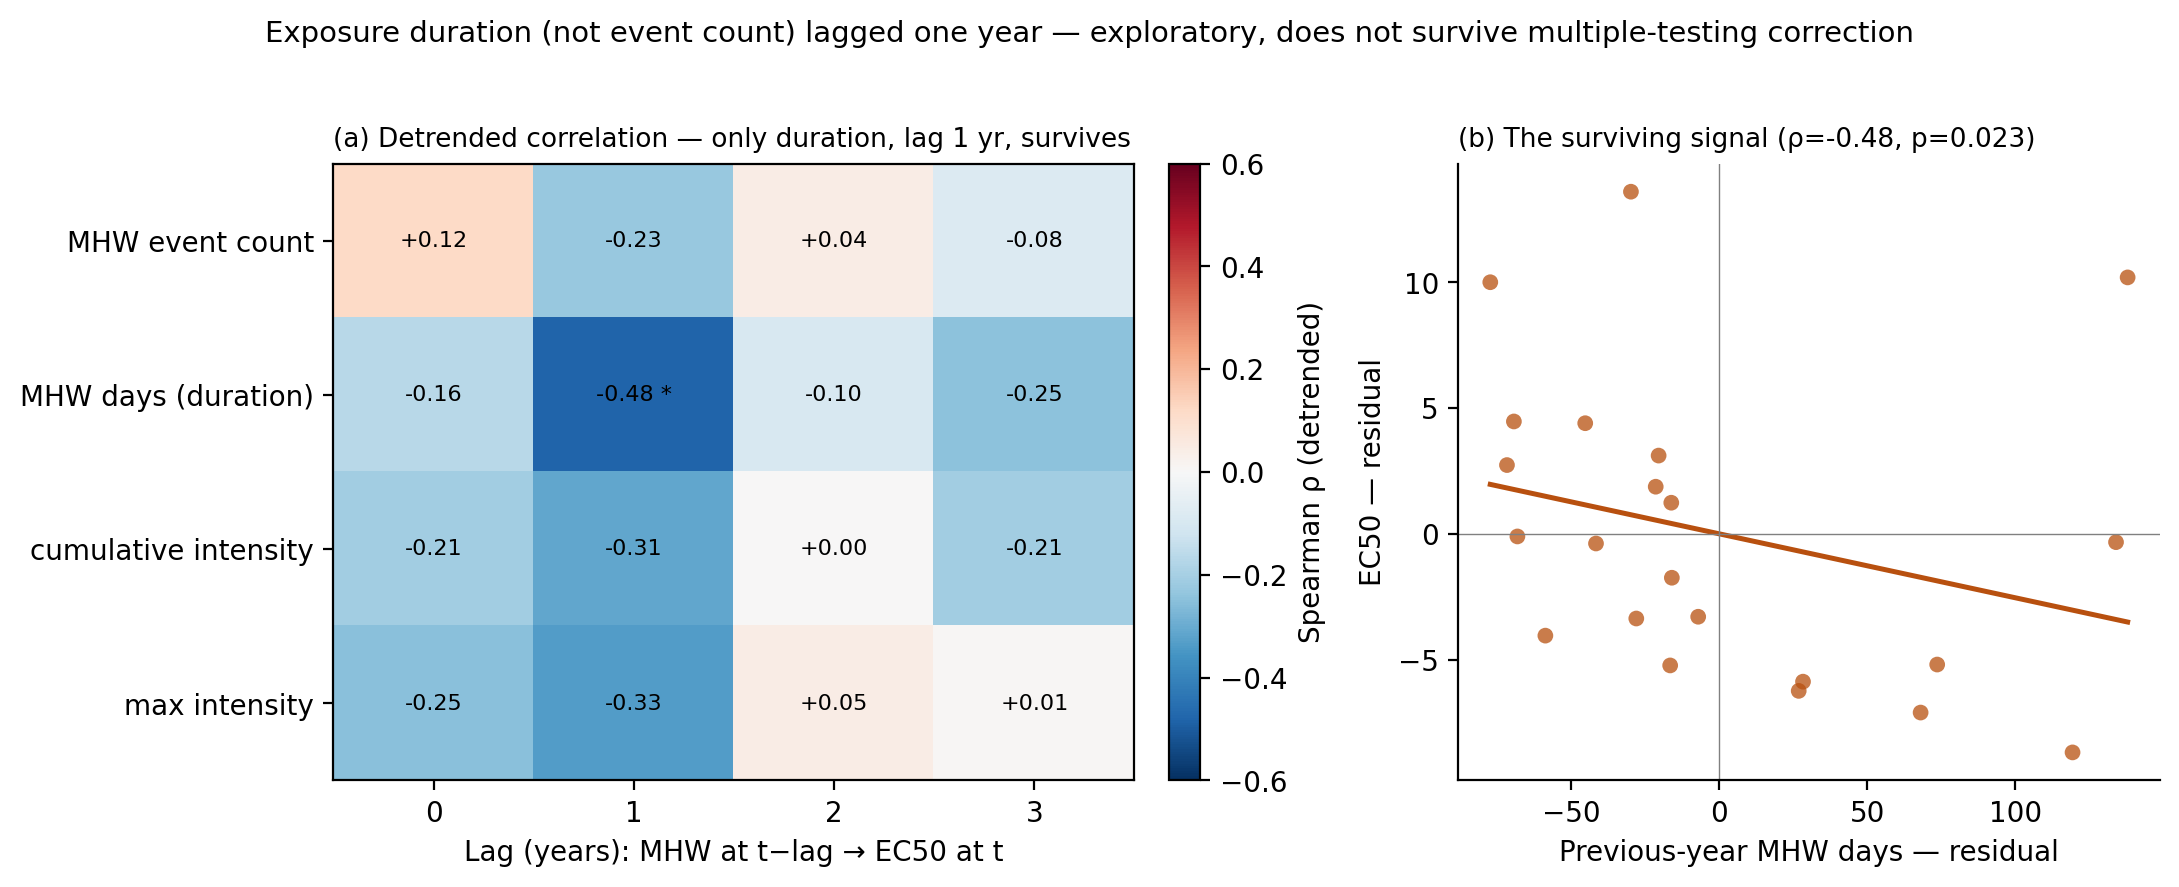
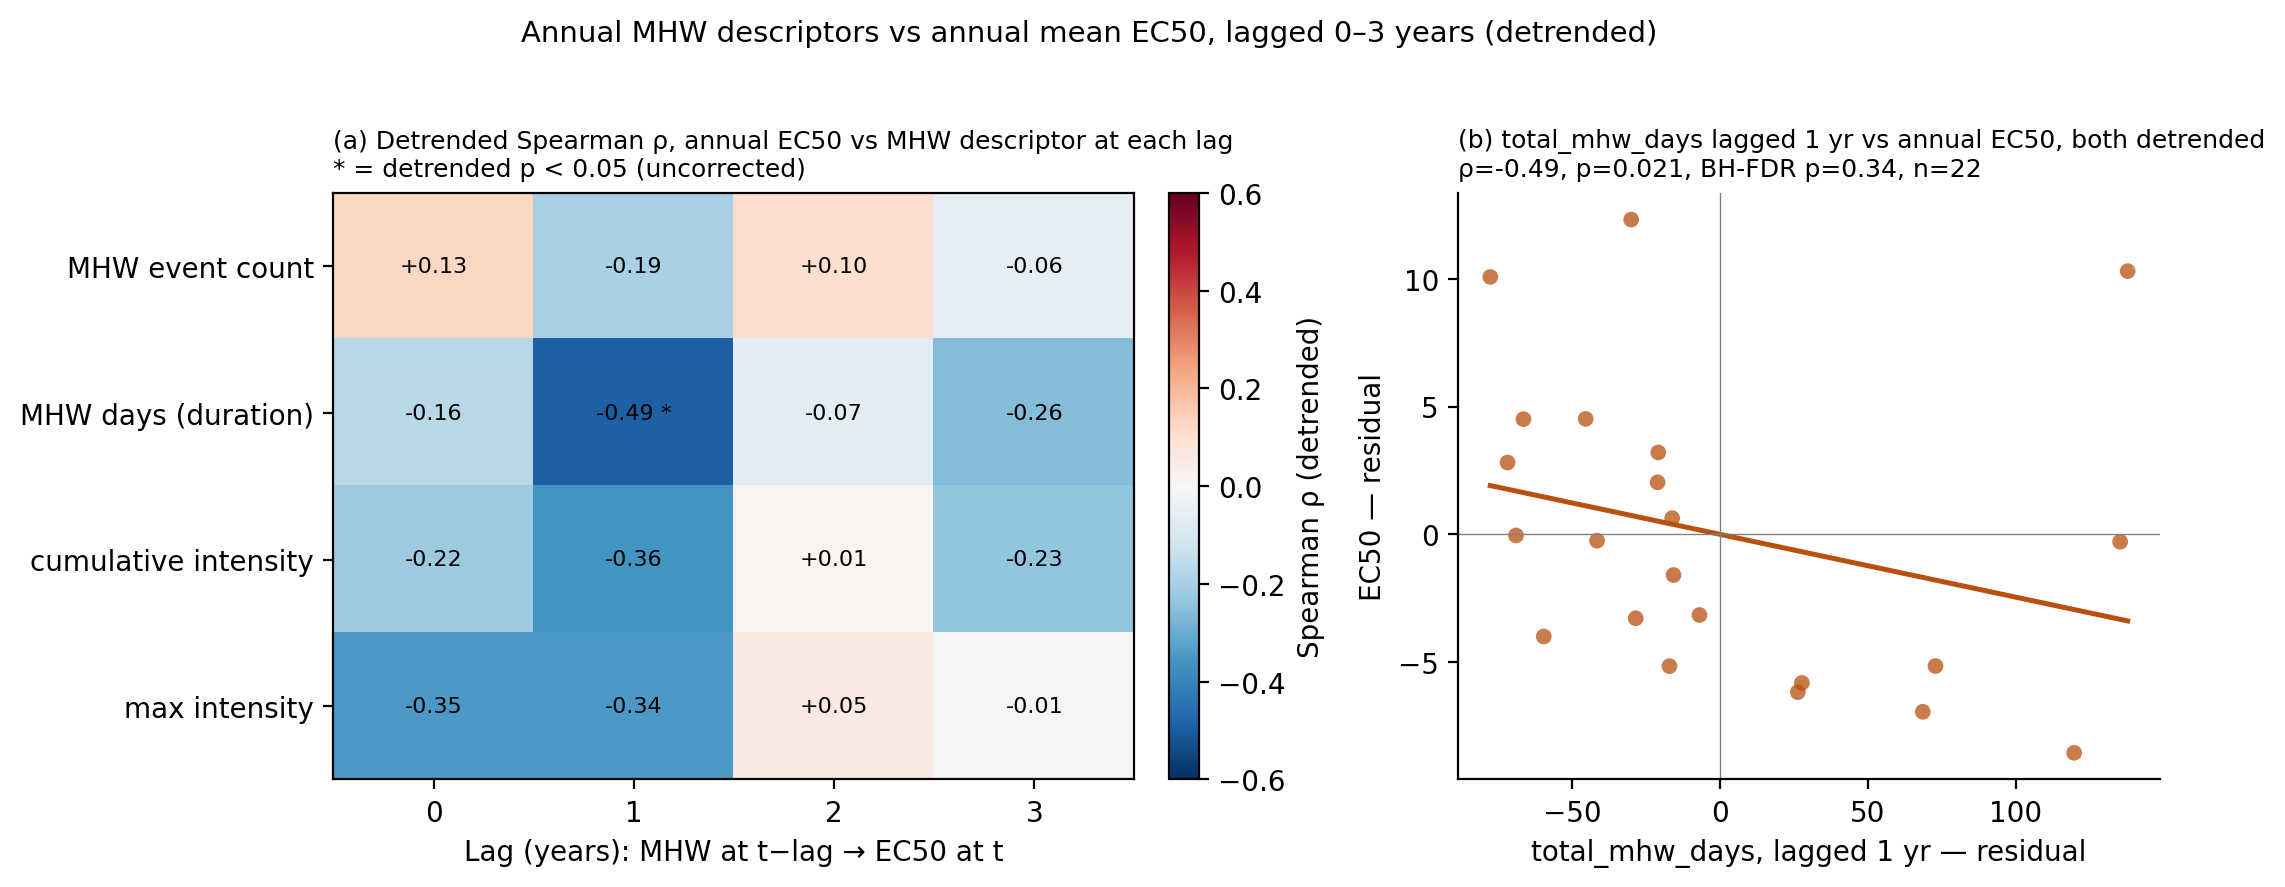
fix: figure titles describe what is plotted, never a conclusion
Le figure del dashboard verranno rigenerate dal job di aggiornamento a
ogni ricostruzione; i loro titoli affermavano conclusioni, fra cui
"Environmental exposure shifts ~3 years before the biological collapse",
la tesi confutata dal lavoro. Ora i titoli descrivono cosa è
rappresentato; date delle rotture, p e regole di scelta stanno in un
sottotitolo calcolato dai risultati.

- regime shift: tolta la freccia "~N-yr accumulation"; "exposure/
  response shift" -> "Pettitt break"; sottotitolo con convenzione delle
  date (ultimo periodo prima del cambiamento) e p di entrambe le rotture;
  pannello (b) senza "climate-change stress".
- MHW annuale: il pannello (b) disegna la coppia best_signal calcolata
  (prima era sempre total_mhw_days al ritardo 1 e anni 2004-2025 scritti
  a mano), con rho, p, p BH-FDR e n nel sottotitolo.
- dose termica: niente "robustly predicts"; la regola di scelta della
  finestra del pannello (b) è dichiarata.
- speciazione: niente "barely shifts"; "Residual biological" -> "Not
  accounted for by speciation".
Figure rigenerate sui dati attuali del branch.

diff --git a/scripts/make_thermal_legacy_figure.py b/scripts/make_thermal_legacy_figure.py
@@ -1,16 +1,13 @@
 """
-Figure: does chronic heat dose above 24 C predict EC50 beyond the shared trend?
-Reads results/thermal_legacy.csv and results/thermal_legacy_summary.json (from
-climate_change_on_sea_urchins.thermal_legacy) and renders two panels:
-
-  (a) detrended Spearman rho for each of the 5 windows (12/24/36/48/60 months),
-      colored by cross-validation status: green = robust (survives Bonferroni
-      on BOTH the rank-based and the parametric OLS partial test), amber =
-      suggestive (rank test only, not corroborated), grey = neither.
-  (b) EC50 vs cumulative thermal dose for the strongest robust window (falling
-      back to the best suggestive, then the best raw, window if none is
-      robust), after removing each series' own linear time trend.
-
+Figure of the thermal-legacy results (results/thermal_legacy.csv and
+thermal_legacy_summary.json, from climate_change_on_sea_urchins.thermal_legacy):
+  (a) detrended Spearman rho of EC50 on the cumulative thermal dose for each
+      dose window, colored by which Bonferroni-corrected tests fall below 0.05
+      (both / rank only / neither), with both p-values on each bar;
+  (b) detrended dose vs detrended EC50 for one window, chosen by a stated
+      rule (smallest detrended p among the windows passing both tests, else
+      the rank test only, else all), with rho and p in the subtitle.
+Titles describe what is plotted; no conclusion is written into the figure.
 Run:  .venv/bin/python3 scripts/make_thermal_legacy_figure.py
 """
 import json
@@ -62,20 +59,20 @@ ax1.set_ylim(top=max(0.02, per_window["detrended_spearman_r"].max() + 0.05),
              bottom=ymin - 0.09)
 ax1.set_xlabel("Cumulative window (months)")
 ax1.set_ylabel("Detrended Spearman ρ (dose vs EC50)")
-ax1.set_title("(a) Green = robust (rank + OLS)  ·  Amber = rank-only  ·  Grey = neither",
-              fontsize=9.5, loc="left")
+ax1.set_title("(a) Detrended Spearman ρ by dose window, Bonferroni-corrected p on each bar\n"
+              "green = both tests < 0.05 · amber = rank test only · grey = neither",
+              fontsize=9, loc="left")
 ax1.spines[["top", "right"]].set_visible(False)
 
 # (b) scatter for the strongest robust window (fall back to suggestive, then
 # overall best detrended p, if nothing is robust)
 if robust:
-    pool = per_window[per_window["window_months"].isin(robust)]
+    pool, rule = per_window[per_window["window_months"].isin(robust)], "both tests < 0.05"
 elif suggestive:
-    pool = per_window[per_window["window_months"].isin(suggestive)]
+    pool, rule = per_window[per_window["window_months"].isin(suggestive)], "rank test only < 0.05"
 else:
-    pool = per_window
+    pool, rule = per_window, "all windows"
 best_win = int(pool.loc[pool["detrended_p"].idxmin(), "window_months"])
-best_status = "robust" if best_win in robust else ("rank-only, not cross-validated" if best_win in suggestive else "not surviving")
 
 dose_col = f"dose_{thr}C_{best_win}m"
 x, y = d[dose_col].values, d["EC50"].values
@@ -90,19 +87,12 @@ xs = np.array([rx.min(), rx.max()])
 ax2.plot(xs, m * xs + b, color=C_DET, lw=2)
 ax2.set_xlabel(f"Thermal dose ({thr}°C, {best_win}m) — residual\n(linear time trend removed)")
 ax2.set_ylabel("EC50 — residual")
-ax2.set_title(f"(b) {best_win}-month window, detrended (ρ = {r_det:.2f}, p = {p_det:.4f}) — {best_status}",
-              fontsize=9.5, loc="left")
+ax2.set_title(f"(b) {best_win}-month dose vs EC50, both detrended\n"
+              f"ρ = {r_det:.2f}, p = {p_det:.4f} · window: smallest detrended p among {rule}",
+              fontsize=9, loc="left")
 ax2.spines[["top", "right"]].set_visible(False)
 
-not_surviving = summary["windows_not_surviving"]
-if robust:
-    suptitle = (f"Chronic thermal dose above {thr}°C robustly predicts EC50 only at "
-                f"{'/'.join(str(w) for w in sorted(robust))}-month timescale(s)")
-elif suggestive:
-    suptitle = (f"Chronic thermal dose above {thr}°C shows a rank-only, not "
-                f"cross-validated signal at {'/'.join(str(w) for w in sorted(suggestive))} months")
-else:
-    suptitle = f"Chronic thermal dose above {thr}°C is not separable from the shared trend"
+suptitle = f"Cumulative thermal dose above {thr}°C vs EC50, by dose window (detrended)"
 fig.suptitle(suptitle, fontsize=11, y=1.02)
 fig.tight_layout()
 for out in [ROOT / "figures" / "fig_thermal_legacy.png",

diff --git a/scripts/make_mhw_lag_annual_figure.py b/scripts/make_mhw_lag_annual_figure.py
@@ -1,12 +1,12 @@
 """
-Figure: the one MHW→EC50 signal that survives detrending — exposure DURATION,
-lagged one year. Reads results/mhw_lag_annual.csv + mhw_lag_annual_summary.json
-(from climate_change_on_sea_urchins.mhw_lag_annual).
-
-  (a) detrended-correlation grid (predictor × lag): only total MHW days at lag 1 yr
-      stands out; event count shows nothing → it's duration, not number.
-  (b) the surviving signal: detrended previous-year MHW days vs detrended EC50.
-
+Figure of the annual lagged MHW -> EC50 results (results/mhw_lag_annual.csv and
+mhw_lag_annual_summary.json, from climate_change_on_sea_urchins.mhw_lag_annual):
+  (a) detrended Spearman rho of annual mean EC50 on each annual MHW descriptor,
+      lagged 0-3 years (* = detrended p < 0.05);
+  (b) scatter of the detrended pair with the smallest detrended p among the
+      negative associations (the module's best_signal), with rho, p and the
+      BH-FDR-adjusted p in the subtitle.
+Titles describe what is plotted; no conclusion is written into the figure.
 Run:  .venv/bin/python3 scripts/make_mhw_lag_annual_figure.py
 """
 import json
@@ -18,6 +18,8 @@ import matplotlib
 matplotlib.use("Agg")
 import matplotlib.pyplot as plt
 from scipy import stats
+
+from climate_change_on_sea_urchins.mhw_lag_annual import YEAR_MIN, YEAR_MAX
 
 ROOT = Path(__file__).resolve().parent.parent
 grid = pd.read_csv(ROOT / "results" / "mhw_lag_annual.csv")
@@ -40,35 +42,37 @@ for i in range(len(preds)):
         star = " *" if P.values[i, j] < 0.05 else ""
         ax1.text(j, i, f"{M.values[i,j]:+.2f}{star}", ha="center", va="center",
                  fontsize=8, color="black")
-ax1.set_title("(a) Detrended correlation — only duration, lag 1 yr, survives",
-              fontsize=9.5, loc="left")
+ax1.set_title("(a) Detrended Spearman ρ, annual EC50 vs MHW descriptor at each lag\n"
+              "* = detrended p < 0.05 (uncorrected)", fontsize=9, loc="left")
 fig.colorbar(im, ax=ax1, fraction=0.046, pad=0.04, label="Spearman ρ (detrended)")
 
-# --- (b) the surviving signal scatter ---
+# --- (b) scatter of the best_signal pair ---
 df = pd.read_csv(ROOT / "data" / "data_extended.csv", parse_dates=["Datetime"])
 ci = pd.read_csv(ROOT / "data" / "data_ec50_ci.csv", parse_dates=["Datetime"])
 df = df.merge(ci[["Datetime", "EC50_imputed"]], on="Datetime")
 real = df[df.EC50_imputed == False].dropna(subset=["EC50"])
 ec = real.assign(y=real.Datetime.dt.year).groupby("y")["EC50"].mean()
 ann = pd.read_csv(ROOT / "data" / "mhw_annual.csv").set_index("year")
-j = pd.concat([ec.rename("ec"), ann["total_mhw_days"].shift(1).rename("m")], axis=1).dropna()
-j = j[(j.index >= 2004) & (j.index <= 2025)]
+b = summ["best_signal"]
+pred, lag = b["predictor"], int(b["lag_years"])
+j = pd.concat([ec.rename("ec"), ann[pred].shift(lag).rename("m")], axis=1).dropna()
+j = j[(j.index >= YEAR_MIN) & (j.index <= YEAR_MAX)]
 det = lambda s: s - np.polyval(np.polyfit(s.index.values, s.values, 1), s.index.values)
 xr, yr = det(j["m"]), det(j["ec"])
-b = summ["best_signal"]
 ax2.scatter(xr, yr, s=32, color="#b8500f", alpha=0.75, edgecolor="none")
 m, q = np.polyfit(xr, yr, 1)
 xs = np.array([xr.min(), xr.max()])
 ax2.plot(xs, m * xs + q, color="#b8500f", lw=1.8)
 ax2.axhline(0, color="grey", lw=0.5); ax2.axvline(0, color="grey", lw=0.5)
-ax2.set_xlabel("Previous-year MHW days — residual")
+ax2.set_xlabel(f"{pred}, lagged {lag} yr — residual")
 ax2.set_ylabel("EC50 — residual")
-ax2.set_title(f"(b) The surviving signal (ρ={b['rho_detrended_spearman']:.2f}, "
-              f"p={b['p_detrended_spearman']:.3f})", fontsize=9.5, loc="left")
+ax2.set_title(f"(b) {pred} lagged {lag} yr vs annual EC50, both detrended\n"
+              f"ρ={b['rho_detrended_spearman']:.2f}, p={b['p_detrended_spearman']:.3f}, "
+              f"BH-FDR p={b['p_detrended_fdr_bh']:.2f}, n={b['n']}", fontsize=9, loc="left")
 ax2.spines[["top", "right"]].set_visible(False)
 
-fig.suptitle("Exposure duration (not event count) lagged one year — exploratory, "
-             "does not survive multiple-testing correction", fontsize=10.5, y=1.02)
+fig.suptitle("Annual MHW descriptors vs annual mean EC50, lagged 0–3 years (detrended)",
+             fontsize=10.5, y=1.02)
 fig.tight_layout()
 for out in [ROOT / "figures" / "fig_mhw_lag_annual.png",
             ROOT / "drafts" / "nuova pubblicazione" / "fig_mhw_lag_annual.png"]:

diff --git a/scripts/make_regime_shift_figure.py b/scripts/make_regime_shift_figure.py
@@ -1,14 +1,10 @@
 """
-Figure: the wild population changed state ~3 years after its environment did.
-
-Reads results produced by climate_change_on_sea_urchins.regime_shift and renders:
-
-  (a) MHW exposure (annual MHW days) with its ~2013 regime shift, overlaid on
-      EC50 with its ~2016 regime shift — visualising the multi-year accumulation
-      lag between environmental forcing and biological collapse.
-  (b) the multifactorial environmental stress index (PC1 of deseasonalised
-      T/S/CO2/O2/pH anomalies) rising through the same window.
-
+Figure of the regime-shift results (climate_change_on_sea_urchins.regime_shift):
+  (a) annual MHW days and the annual mean of the real EC50 measurements, each
+      with its Pettitt break (the last period before the change), with the
+      breaks' p-values in the subtitle;
+  (b) PC1 of the deseasonalised T/S/CO2/O2/pH anomalies, annual mean.
+Titles describe what is plotted; no conclusion is written into the figure.
 Run:  .venv/bin/python3 scripts/make_regime_shift_figure.py
 """
 import json
@@ -35,8 +31,10 @@ ec50 = ec50[ec50.EC50_imputed == False].dropna(subset=["EC50"])
 ec50_year = ec50.assign(y=ec50.Datetime.dt.year).groupby("y")["EC50"].mean()
 
 mhw_break = summ["mhw_exposure_break_year"]
-ec50_break = int(summ["ec50_regime_shift"]["break"][:4])
-lag = summ["exposure_precedes_response_years"]
+ec50_break_month = summ["ec50_regime_shift"]["break"][:7]
+ec50_break = int(ec50_break_month[:4])
+ec50_p = summ["ec50_regime_shift"]["p"]
+mhw_p = float(cp.loc[cp["series"] == "MHW_total_mhw_days", "p_value"].iloc[0])
 
 C_MHW, C_EC, C_STR = "#c0392b", "#1f3b73", "#6b4c9a"
 
@@ -52,22 +50,21 @@ ax1.tick_params(axis="y", labelcolor=C_MHW)
 
 axb = ax1.twinx()
 axb.plot(ec50_year.index, ec50_year.values, "-o", color=C_EC, ms=4, lw=1.8,
-         label="EC50 (copper tolerance)")
+         label="EC50, annual mean of real measurements")
 axb.axvline(ec50_break, color=C_EC, ls="--", lw=1.5)
 axb.set_ylabel("Copper EC50 (µg L⁻¹)", color=C_EC)
 axb.tick_params(axis="y", labelcolor=C_EC)
 
-ymid = ec50_year.max() * 0.9
-axb.annotate("", xy=(ec50_break, ymid), xytext=(mhw_break, ymid),
-             arrowprops=dict(arrowstyle="->", color="black", lw=1.3))
-axb.text((mhw_break + ec50_break) / 2, ymid * 1.02,
-         f"~{lag}-yr accumulation", ha="center", va="bottom", fontsize=8.5)
-ax1.text(mhw_break, 0.97, f" exposure shift {mhw_break}", transform=ax1.get_xaxis_transform(),
+# Titles describe what is plotted, never a conclusion; break dates and p go
+# in a subtitle computed from the precomputed results.
+ax1.text(mhw_break, 0.97, f" Pettitt break {mhw_break}", transform=ax1.get_xaxis_transform(),
          color=C_MHW, fontsize=8, va="top", ha="right")
-axb.text(ec50_break, 0.05, f" response shift {ec50_break}", transform=axb.get_xaxis_transform(),
+axb.text(ec50_break, 0.05, f" Pettitt break {ec50_break_month}", transform=axb.get_xaxis_transform(),
          color=C_EC, fontsize=8, va="bottom", ha="left")
-ax1.set_title("(a) Environmental exposure shifts ~3 years before the biological collapse",
-              fontsize=10, loc="left")
+ax1.set_title("(a) Annual MHW days and annual mean EC50, with their Pettitt breaks\n"
+              f"break = last period before the change · MHW days {mhw_break} (p={mhw_p:.2g}) · "
+              f"EC50 {ec50_break_month} (p={ec50_p:.1e})",
+              fontsize=9, loc="left")
 
 # --- (b) multifactorial stress index ---
 s = stress.dropna().sort_values("Datetime")
@@ -79,11 +76,11 @@ ax2.fill_between(ann_stress.index, ann_stress.values, 0,
                  where=(ann_stress.values < 0), color=C_STR, alpha=0.2)
 ax2.plot(ann_stress.index, ann_stress.values, color=C_STR, lw=1.8)
 ve = summ["multifactorial_stress_index"]["pc1_variance_explained"] * 100
-ax2.set_ylabel("Stress index\n(PC1, a.u.)")
+ax2.set_ylabel("PC1 (a.u.)")
 ax2.set_xlabel("Year")
-ax2.set_title(f"(b) Multifactorial climate-change stress index "
-              f"(PC1 of T/S/CO₂/O₂/pH anomalies, {ve:.0f}% variance)",
-              fontsize=10, loc="left")
+ax2.set_title(f"(b) PC1 of the deseasonalised T/S/CO₂/O₂/pH anomalies, annual mean "
+              f"({ve:.0f}% of their variance)",
+              fontsize=9, loc="left")
 
 fig.tight_layout()
 for out in [ROOT / "figures" / "fig_regime_shift.png",

diff --git a/scripts/make_speciation_figure.py b/scripts/make_speciation_figure.py
@@ -1,16 +1,11 @@
 """
-Figure: is the 20-year decline in copper EC50 geochemistry or biology?
-
-Reads results/cu_speciation_decomposition.csv + cu_speciation_summary.json
-(produced by climate_change_on_sea_urchins.cu_speciation) and renders a
-two-panel publication figure:
-
-  (a) nominal EC50 vs speciation-corrected ("free-Cu2+-equivalent") EC50 over
-      time — the two series are nearly indistinguishable, i.e. removing the
-      ocean-acidification bioavailability effect barely changes the trend.
-  (b) attribution of the pre/post-2016 decline into a small geochemical
-      component and a large residual biological component.
-
+Figure of the copper-speciation decomposition (results/cu_speciation_decomposition.csv
+and cu_speciation_summary.json, from climate_change_on_sea_urchins.cu_speciation):
+  (a) nominal EC50 and speciation-corrected ("free-Cu2+-equivalent", literature
+      correction) EC50 of the real measurements over time, with linear fits;
+  (b) the nominal pre/post decline split into the share accounted for by the
+      speciation correction and the remainder, with the values in the labels.
+Titles describe what is plotted; no conclusion is written into the figure.
 Run:  .venv/bin/python3 scripts/make_speciation_figure.py
 """
 import json
@@ -56,8 +51,8 @@ ax1.text(SPLIT_DATE + pd.DateOffset(months=1), ax1.get_ylim()[1] * 0.96,
          f"{SPLIT_DATE:%Y}", color="grey", fontsize=8, va="top")
 ax1.set_ylabel("Copper EC50 (µg L⁻¹)")
 ax1.set_xlabel("Year")
-ax1.set_title("(a) Correcting for Cu speciation barely shifts the decline",
-              fontsize=10, loc="left")
+ax1.set_title("(a) Nominal and speciation-corrected EC50 of the real measurements,\n"
+              "with linear fits", fontsize=10, loc="left")
 ax1.legend(frameon=False, fontsize=8, loc="upper right")
 ax1.spines[["top", "right"]].set_visible(False)
 
@@ -67,13 +62,13 @@ geo = s["geochemical_share_literature_pct"]          # % of the decline
 geo_pts = nominal * geo / 100.0                       # in EC50-decline percentage points
 bio_pts = nominal - geo_pts
 
-ax2.bar(0, geo_pts, width=0.6, color=C_GEO, label="Geochemical (OA bioavailability)")
+ax2.bar(0, geo_pts, width=0.6, color=C_GEO, label="Accounted for by Cu speciation (pH)")
 ax2.bar(0, bio_pts, bottom=geo_pts, width=0.6, color=C_BIO,
-        label="Residual biological")
+        label="Not accounted for by speciation")
 ax2.set_xlim(-0.8, 0.8)
 ax2.set_xticks([])
 ax2.set_ylabel("Decline in nominal EC50 (%)")
-ax2.set_title("(b) Attribution of the\npre→post-2016 decline", fontsize=10, loc="left")
+ax2.set_title(f"(b) Nominal decline, before vs\nfrom {SPLIT_DATE:%Y-%m} on", fontsize=10, loc="left")
 ax2.annotate(f"{geo_pts:.1f} pp\n(≈{geo:.0f}%)", (0, geo_pts / 2),
              ha="center", va="center", fontsize=8, color="#0b3d66")
 ax2.annotate(f"{bio_pts:.1f} pp\n(≈{100 - geo:.0f}%)", (0, geo_pts + bio_pts / 2),
